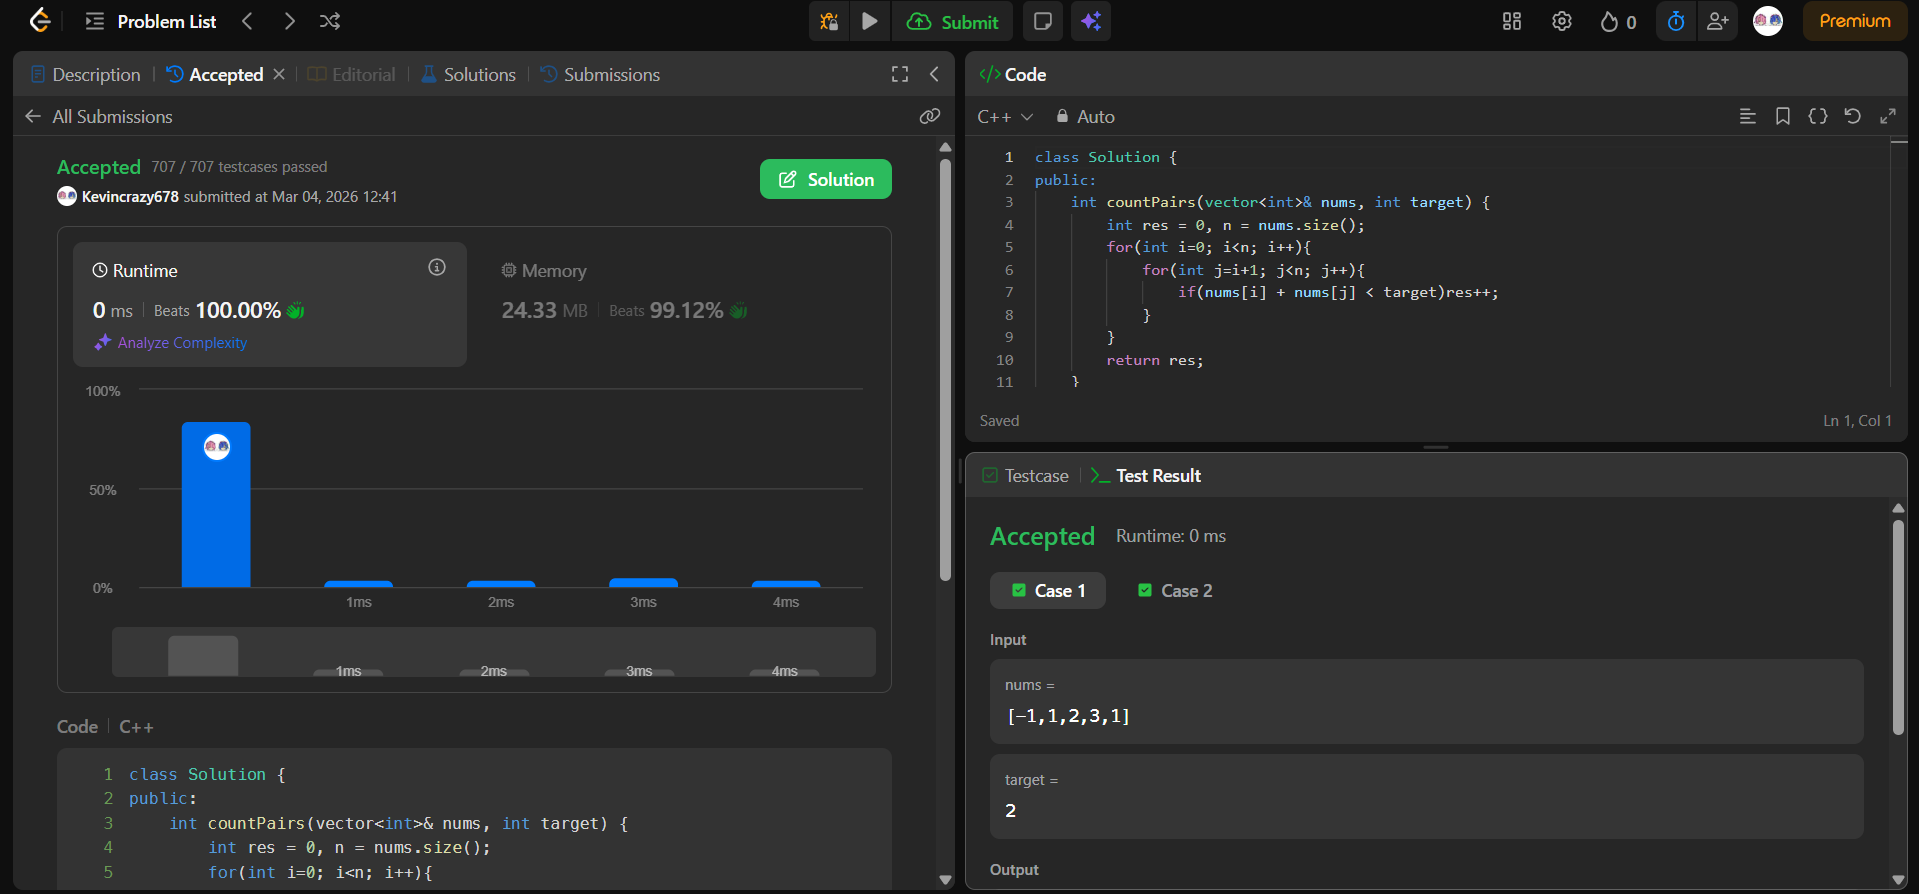
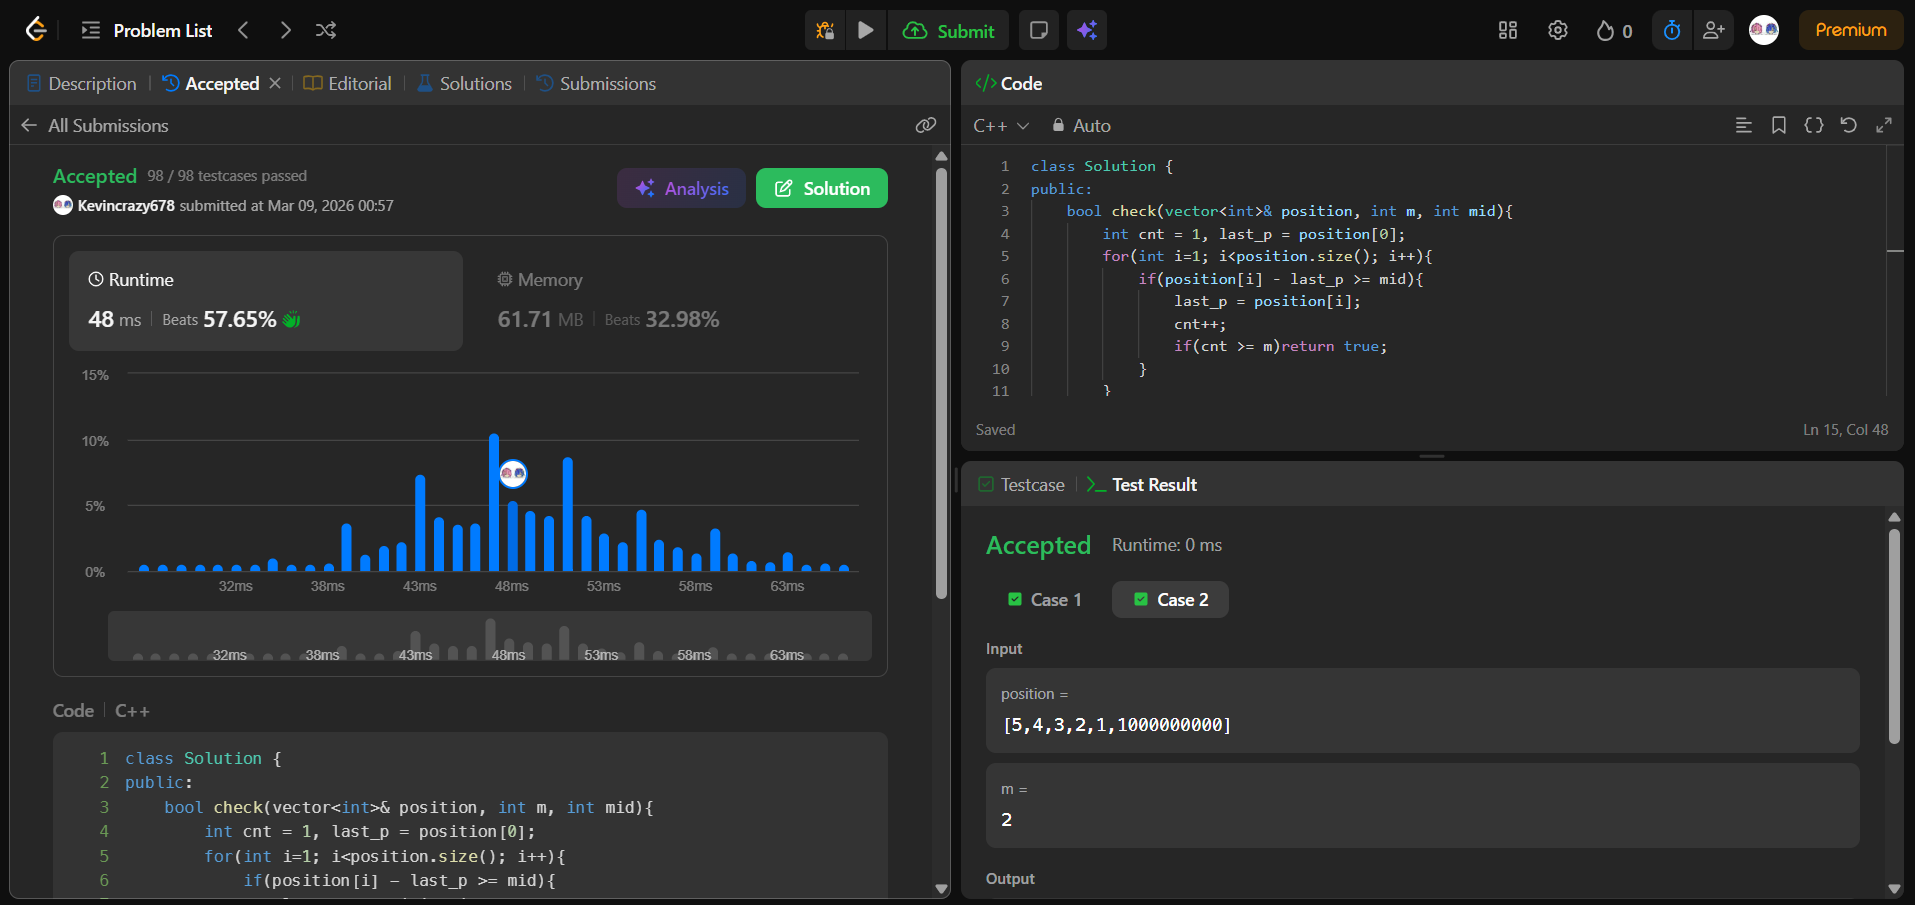
init project

diff --git a/25127018_W04_X/Ex09/Ex09.cpp b/25127018_W04_X/Ex09/Ex09.cpp
@@ -1,27 +1,49 @@
-//link to the problem: https://leetcode.com/problems/count-pairs-whose-sum-is-less-than-target/
+//link to the problem: https://leetcode.com/problems/magnetic-force-between-two-balls
 class Solution {
 public:
-    int countPairs(vector<int>& nums, int target) {
-    	//Time Comp: O(n*n), Space Comp: O(1)
-        int res = 0, n = nums.size();
-        for(int i=0; i<n; i++){
-            for(int j=i+1; j<n; j++){
-            	//Check if the sum of nums[i] and nums[j] is lower than target, if yes increase res
-                if(nums[i] + nums[j] < target)res++;
+    bool check(vector<int>& position, int m, int mid){
+        int cnt = 1, last_p = position[0];
+        //we are checking if we can place m balls in the array with a distance of mid between them
+        for(int i=1; i<position.size(); i++){
+            //if the distance between two balls is greater than or equal to mid, then we can place m balls in the array
+            if(position[i] - last_p >= mid){
+                last_p = position[i];
+                cnt++;
+                if(cnt >= m)return true;
+            }
+        }
+        return false;
+    }
+    int maxDistance(vector<int>& position, int m) {
+        //time complexity: O(nlogn) + O(nlog(max-min)) = O(nlogn)
+        //space complexity: O(1)
+        sort(position.begin(), position.end());
+        int right = 1, left = position.back() - position[0], res = 1;
+        while(right <= left){
+            //we are using binary search to find the maximum distance between two balls
+            int mid = right + (left - right)/2;
+            //if the distance between two balls is greater than or equal to mid, then we can place m balls in the array
+            if(check(position, m, mid)){
+                res = mid;
+                right = mid + 1;
+            }
+            //if the distance between two balls is less than mid, then we cannot place m balls in the array
+            else{
+                left = mid - 1;
             }
         }
         return res;
     }
 };
 
-//test case 1
-//[-1,1,2,3,1] 2
+//test case 1: arranged in increasing order
+//[1,2,3,4,7] 3
 //Ans: 3
 
-//test case 2
-//[-6,2,5,-2,-7,-1,3] -2
-//Ans: 10
+//test case 2: having a large number in the array and arranged in decreasing order
+//[5,4,3,2,1,1000000000] 2
+//Ans: 999999999
 
-//test case 3
-//[2,3,5,1,21,23,18] 12
-//Ans: 6
+//test case 3: not arranged in increasing order and having a large number in the array
+//[1,10,5,3,8] 3
+//Ans: 4
